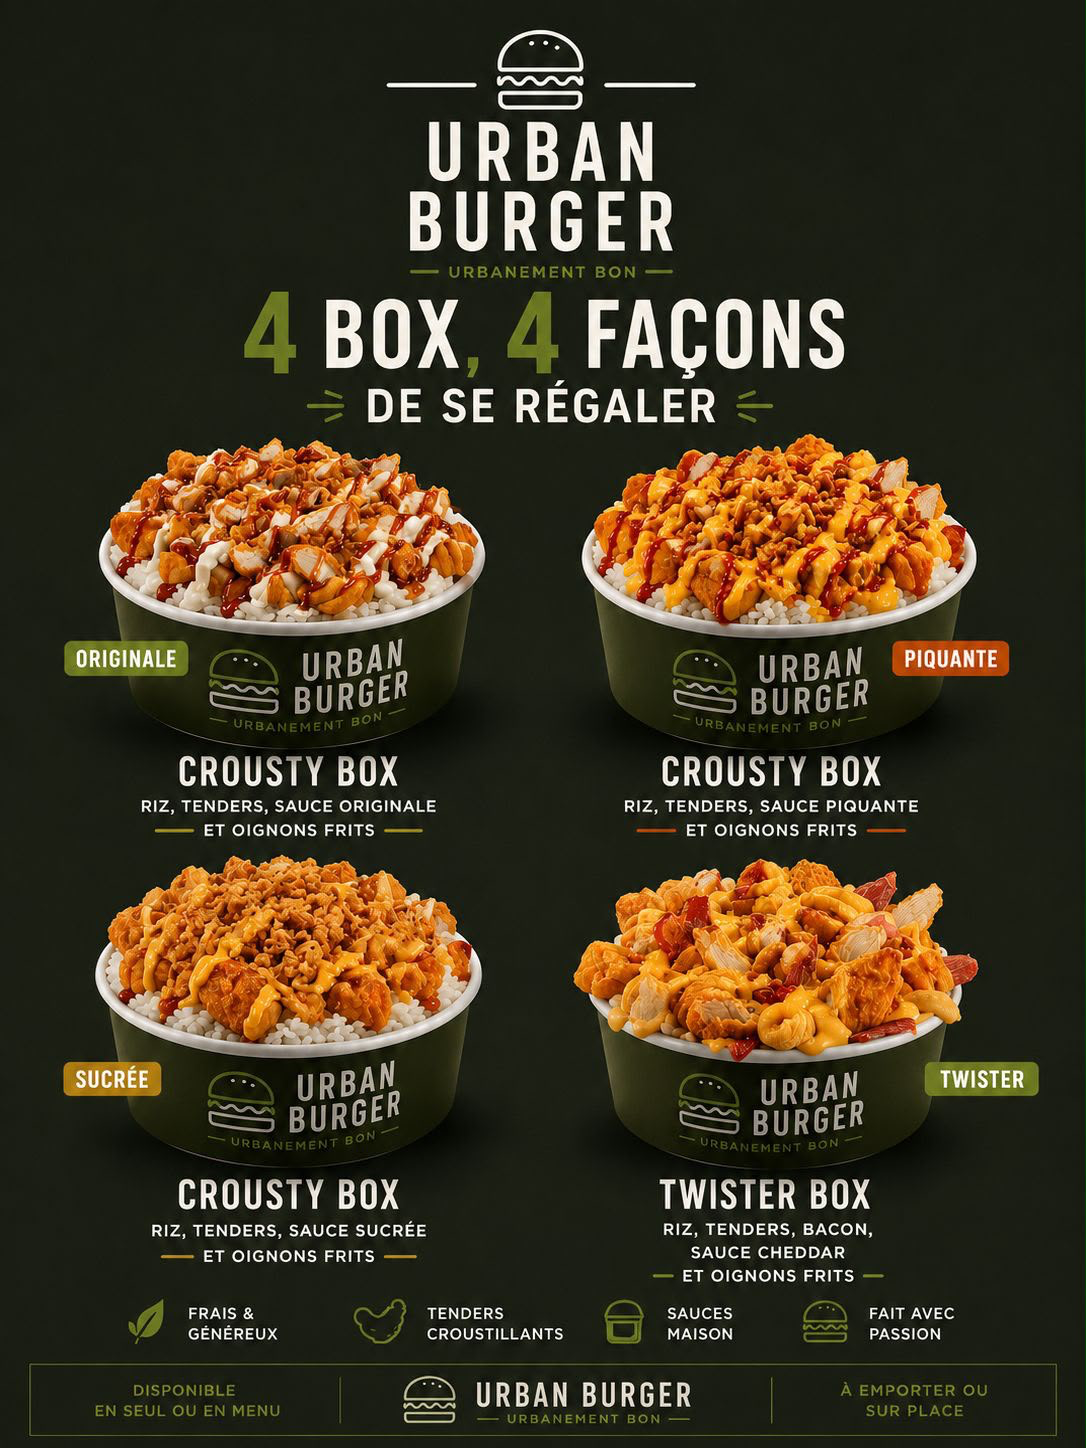
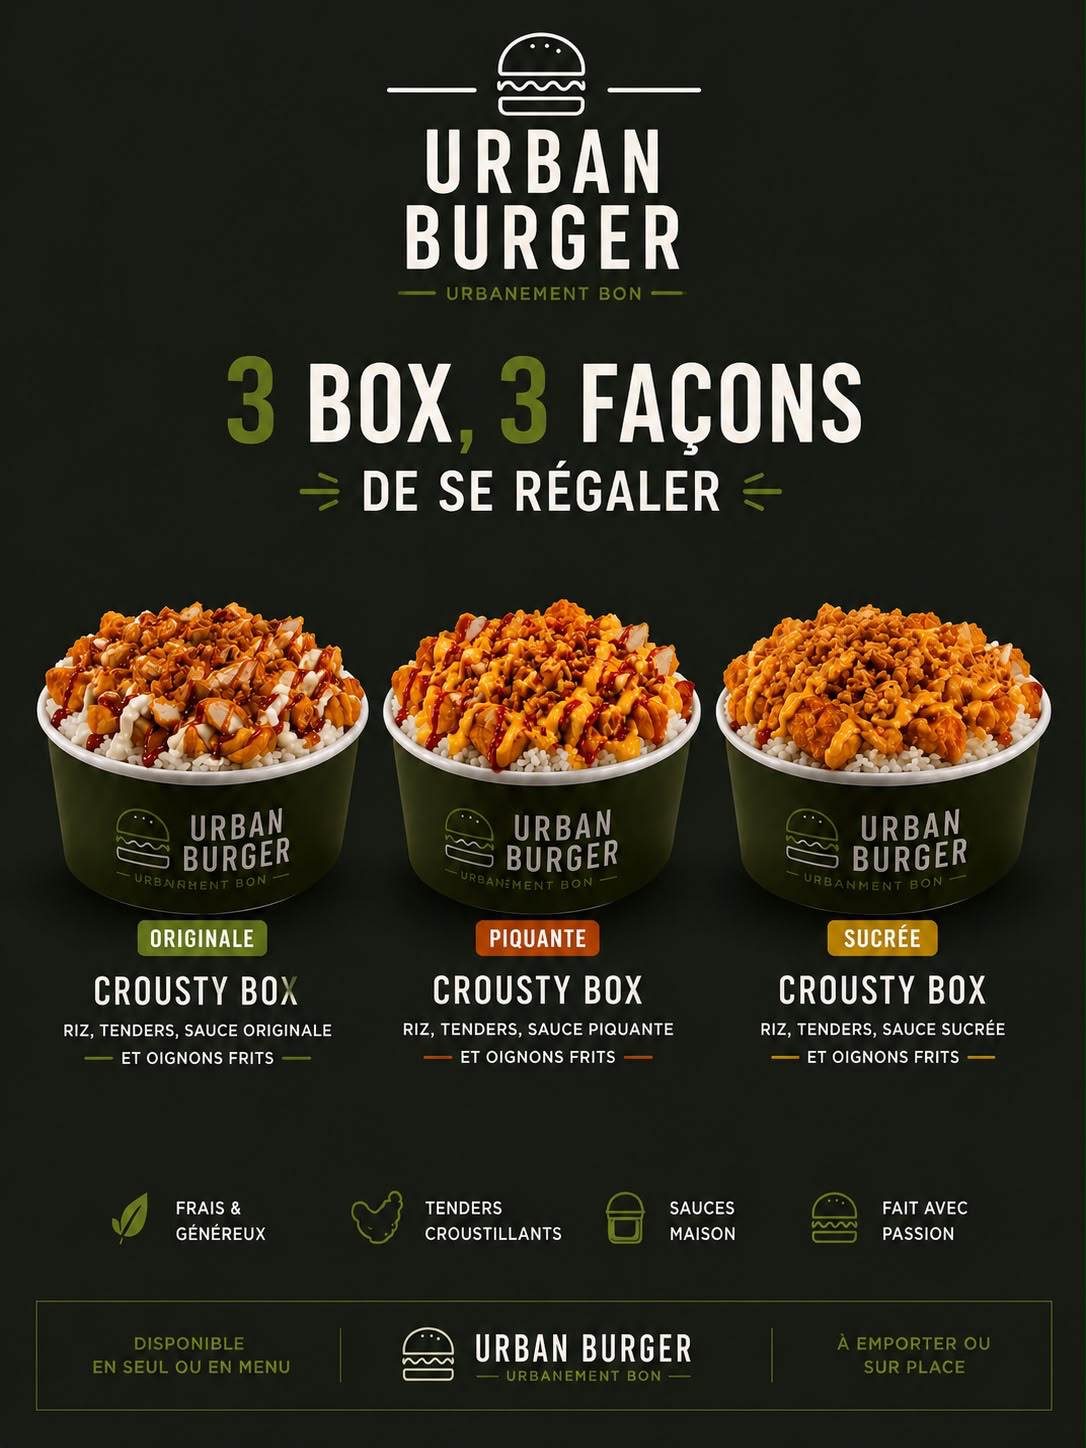
Add about card

diff --git a/assets/css/style.css b/assets/css/style.css
@@ -514,6 +514,74 @@ p {
   min-width: 15rem;
 }
 
+/* ---------- À propos ----------
+   Composition "split" éditoriale, plein bord : la photo occupe une
+   moitié entière de la section (pleine hauteur, sans marge ni cadre
+   arrondi) et le texte vit dans un panneau sombre en vis-à-vis.
+   Empilés en mobile/tablette, l'image passe en bandeau large. */
+
+.about {
+  background: var(--color-dark);
+  color: var(--color-cream);
+}
+
+.about__layout {
+  display: flex;
+  flex-direction: column;
+}
+
+.about__frame {
+  margin: 0;
+  background: var(--color-abyss);
+}
+
+.about__frame img {
+  width: 100%;
+  height: clamp(280px, 75vw, 460px);
+  object-fit: cover;
+  object-position: center 38%;
+  display: block;
+}
+
+.about__panel {
+  padding: clamp(2.5rem, 8vw, 4.5rem) clamp(1.5rem, 6vw, 3rem);
+}
+
+.about__panel .section-title {
+  margin-top: .6rem;
+}
+
+.about__text {
+  margin-top: 1.25rem;
+  font-size: 1rem;
+  opacity: .85;
+  max-width: 34rem;
+}
+
+.about__stat {
+  display: flex;
+  align-items: baseline;
+  gap: .85rem;
+  margin-top: clamp(2rem, 5vw, 2.75rem);
+  padding-top: clamp(2rem, 5vw, 2.75rem);
+  border-top: 1px solid rgba(242, 239, 228, .15);
+}
+
+.about__stat-number {
+  font-family: var(--font-title);
+  font-size: clamp(2.6rem, 8vw, 3.6rem);
+  line-height: 1;
+  color: var(--color-brass);
+}
+
+.about__stat-label {
+  font-size: .75rem;
+  font-weight: 600;
+  letter-spacing: .1em;
+  text-transform: uppercase;
+  opacity: .8;
+}
+
 /* ---------- Signature Burgers ---------- */
 
 /* Le Double Urban Beef, mis en avant en grand, dans une carte
@@ -1003,6 +1071,27 @@ p {
 
 /* ---------- ~ Tablette ---------- */
 @media (min-width: 721px) {
+  .about__layout {
+    flex-direction: row;
+    min-height: 30rem;
+  }
+
+  .about__frame,
+  .about__panel {
+    flex: 1 1 50%;
+    min-width: 0;
+  }
+
+  .about__frame img {
+    height: 100%;
+  }
+
+  .about__panel {
+    display: flex;
+    flex-direction: column;
+    justify-content: center;
+  }
+
   .signature-featured__info,
   .signature-card__info {
     flex-direction: row;

diff --git a/index.html b/index.html
@@ -29,6 +29,7 @@
     <nav class="main-nav" aria-label="Navigation principale">
       <ul>
         <li><a href="#accueil">Accueil</a></li>
+        <li><a href="#apropos">À propos</a></li>
         <li><a href="#menu">Menu</a></li>
         <li><a href="#click-collect">Click &amp; Collect</a></li>
         <li><a href="#contact">Contact</a></li>
@@ -77,6 +78,26 @@
     </div>
   </section>
 
+  <!-- ============ À PROPOS ============ -->
+  <section class="about" id="apropos" aria-labelledby="about-title">
+    <div class="about__layout">
+      <figure class="about__frame">
+        <img src="assets/img/location.png" alt="L'intérieur du restaurant Urban Burger" width="1535" height="1024" loading="lazy">
+      </figure>
+
+      <div class="about__panel">
+        <p class="section-kicker">Notre histoire</p>
+        <h2 class="section-title" id="about-title">À propos</h2>
+        <p class="about__text">Après 25 ans d'expérience cumulée dans une chaîne de restauration rapide reconnue mondialement, puis une première expérience sous franchise, nous avons pris ce que nous en avons retenu de meilleur pour créer notre propre vision du burger&nbsp;: des produits frais, un savoir-faire éprouvé et une exigence de tous les instants, pour vous proposer le meilleur.</p>
+
+        <div class="about__stat">
+          <span class="about__stat-number">25</span>
+          <span class="about__stat-label">ans d'expérience<br>cumulée</span>
+        </div>
+      </div>
+    </div>
+  </section>
+
   <!-- ============ SIGNATURE BURGERS ============ -->
   <section class="section section--dark signature" id="menu" aria-labelledby="signature-title">
     <div class="container container--wide">
@@ -96,7 +117,6 @@
             <h3>Le Double Urban Beef</h3>
             <p>Deux steaks façon bouchère, cheddar fondu, bacon croustillant, cornichons, oignons et sauce ketchup &amp; moutarde dans un pain brioché.</p>
           </div>
-          <p class="signature-featured__price">14,90&nbsp;€</p>
         </div>
       </article>
 
@@ -111,7 +131,6 @@
               <h3>Urban Big</h3>
               <p>Deux steaks juteux, une sauce onctueuse, du fromage fondu et de la salade croustillante, le tout dans un pain moelleux.</p>
             </div>
-            <p class="signature-card__price">13,90&nbsp;€</p>
           </div>
         </article>
 
@@ -124,7 +143,6 @@
               <h3>Manhattan Beef</h3>
               <p>Steak façon bouchère, sauce City, oignons caramélisés, cheddar fondu, bacon, cornichons, salade fraîche et tomate juteuse dans un pain brioché.</p>
             </div>
-            <p class="signature-card__price">12,50&nbsp;€</p>
           </div>
         </article>
 
@@ -137,7 +155,6 @@
               <h3>Le Chèvre Miel</h3>
               <p>Steak façon bouchère, chèvre fondant, oignons caramélisés, tomates séchées, mesclun et miel dans un pain brioché moelleux.</p>
             </div>
-            <p class="signature-card__price">13,20&nbsp;€</p>
           </div>
         </article>
 
@@ -150,7 +167,6 @@
               <h3>Le Chicken Sweet</h3>
               <p>Poulet croustillant, jalapeños, cheddar fondu, bacon, tomate juteuse et sauces BBQ douce &amp; piquante dans un pain brioché.</p>
             </div>
-            <p class="signature-card__price">12,90&nbsp;€</p>
           </div>
         </article>
 
@@ -355,11 +371,6 @@
 
       <div class="faq-list">
         <details class="faq-item" open>
-          <summary>Urban Burger est-il certifié halal ?</summary>
-          <p>Oui, l'intégralité de notre carte est 100&nbsp;% halal. Toutes nos viandes, du steak façon bouchère au poulet croustillant, proviennent exclusivement de filières certifiées halal.</p>
-        </details>
-
-        <details class="faq-item">
           <summary>Comment commander ?</summary>
           <p>Deux façons simples de savourer Urban Burger&nbsp;: commandez en ligne via notre service Click &amp; Collect et récupérez votre commande à l'heure choisie, ou rendez-vous directement dans notre restaurant à Bourges pour commander sur place.</p>
         </details>
@@ -367,7 +378,7 @@
 
       <div class="faq-cta">
         <p>Vous avez une autre question&nbsp;?</p>
-        <a href="tel:[phone redacted]" class="btn btn--accent">Appelez-nous&nbsp;· [phone redacted]</a>
+        <a href="tel:[phone redacted]" class="btn btn--accent">Appelez-nous&nbsp;· [phone redacted]</a>
       </div>
     </div>
   </section>
@@ -387,8 +398,8 @@
     <div class="footer__address">
       <h3 class="footer__heading">Adresse</h3>
       <address>
-        12 rue Moyenne<br>
-        18000 Bourges
+        565 route de la charité<br>
+        18390 Saint Germain du Puy
       </address>
     </div>
 
@@ -400,17 +411,20 @@
         Dimanche : 12h00 – 22h00
       </p>
       <h3 class="footer__heading" style="margin-top:1.5rem;">Téléphone</h3>
-      <p><a href="tel:[phone redacted]">[phone redacted]</a></p>
+      <p><a href="tel:[phone redacted]">[phone redacted]</a></p>
     </div>
 
     <div class="footer__socials">
       <h3 class="footer__heading">Suivez-nous</h3>
       <div class="footer__social">
-        <a href="#" aria-label="Urban Burger sur Instagram">
+        <a href="https://www.instagram.com/streatburgerbourges" target="_blank" rel="noopener" aria-label="Urban Burger sur Instagram">
           <svg viewBox="0 0 24 24" aria-hidden="true"><path d="M12 2.2c3.2 0 3.6 0 4.85.07 3.25.15 4.77 1.69 4.92 4.92.06 1.25.07 1.63.07 4.81 0 3.19-.01 3.56-.07 4.81-.15 3.23-1.66 4.77-4.92 4.92-1.25.06-1.62.07-4.85.07-3.2 0-3.6 0-4.85-.07-3.26-.15-4.77-1.7-4.92-4.92-.06-1.25-.07-1.62-.07-4.81 0-3.18.01-3.56.07-4.81C2.36 3.96 3.9 2.42 7.15 2.27 8.4 2.2 8.8 2.2 12 2.2Zm0 1.8c-3.14 0-3.5.01-4.74.07-2.35.11-3.28 1.04-3.39 3.39-.06 1.24-.07 1.6-.07 4.74 0 3.14.01 3.5.07 4.74.11 2.35 1.04 3.28 3.39 3.39 1.24.06 1.6.07 4.74.07 3.14 0 3.5-.01 4.74-.07 2.35-.11 3.28-1.05 3.39-3.39.06-1.24.07-1.6.07-4.74 0-3.14-.01-3.5-.07-4.74-.11-2.35-1.05-3.28-3.39-3.39-1.24-.06-1.6-.07-4.74-.07Zm0 3.1a5.9 5.9 0 1 1 0 11.8 5.9 5.9 0 0 1 0-11.8Zm0 1.8a4.1 4.1 0 1 0 0 8.2 4.1 4.1 0 0 0 0-8.2Zm5.94-1.98a1.38 1.38 0 1 1-2.76 0 1.38 1.38 0 0 1 2.76 0Z"/></svg>
         </a>
-        <a href="#" aria-label="Urban Burger sur Facebook">
-          <svg viewBox="0 0 24 24" aria-hidden="true"><path d="M13.5 21v-7.9h2.65l.4-3.08h-3.05V8.06c0-.89.25-1.5 1.52-1.5h1.63V3.8c-.28-.04-1.25-.12-2.37-.12-2.35 0-3.96 1.43-3.96 4.06v2.27H7.65v3.08h2.67V21h3.18Z"/></svg>
+        <a href="https://www.snapchat.com/add/Streat_burger18" target="_blank" rel="noopener" aria-label="Urban Burger sur Snapchat">
+          <svg viewBox="0 0 24 24" aria-hidden="true"><path d="M12 2.6c2.98 0 5.16 2.36 5.16 5.3 0 .96-.04 1.87-.1 2.5.32.13.85.24 1.2.24.5 0 .77.32.77.68 0 .5-.5.87-1.3 1.16-.13.05-.28.1-.28.27 0 .1.06.28.13.44.28.66 1.05 1.5 2.5 1.78.24.05.4.22.4.42 0 .1-.02.2-.06.28-.24.55-1.5.94-2.55 1.1-.06.16-.1.42-.15.65-.06.3-.28.63-.85.63h-.06c-.36 0-.85-.08-1.5-.08-.6 0-1.25.16-1.94.66-.75.55-1.5 1.13-2.87 1.13-1.35 0-2.1-.58-2.86-1.13-.68-.5-1.34-.66-1.94-.66-.68 0-1.16.09-1.5.09h-.05c-.55 0-.78-.32-.85-.63-.05-.24-.09-.5-.15-.66-1.05-.16-2.3-.55-2.55-1.1a.6.6 0 0 1-.06-.27c0-.2.15-.38.4-.43 1.44-.28 2.2-1.11 2.5-1.78.06-.15.12-.33.12-.43 0-.17-.15-.22-.28-.27-.8-.29-1.3-.66-1.3-1.16 0-.35.28-.68.78-.68.35 0 .87-.1 1.2-.24-.06-.63-.1-1.54-.1-2.5 0-2.94 2.18-5.3 5.16-5.3Z"/></svg>
+        </a>
+        <a href="https://www.tiktok.com/@streatburger18" target="_blank" rel="noopener" aria-label="Urban Burger sur TikTok">
+          <svg viewBox="0 0 24 24" aria-hidden="true"><path d="M16.6 2h-3.2v13.5c0 1.5-1.2 2.7-2.7 2.7a2.7 2.7 0 0 1-2.7-2.7 2.7 2.7 0 0 1 2.7-2.7c.3 0 .55.04.8.1V9.7a5.9 5.9 0 0 0-.8-.05A5.9 5.9 0 0 0 4.8 15.5 5.9 5.9 0 0 0 10.7 21.4a5.9 5.9 0 0 0 5.9-5.9V8.4a8.1 8.1 0 0 0 4.6 1.4V6.6a4.9 4.9 0 0 1-4.6-4.6Z"/></svg>
         </a>
       </div>
     </div>